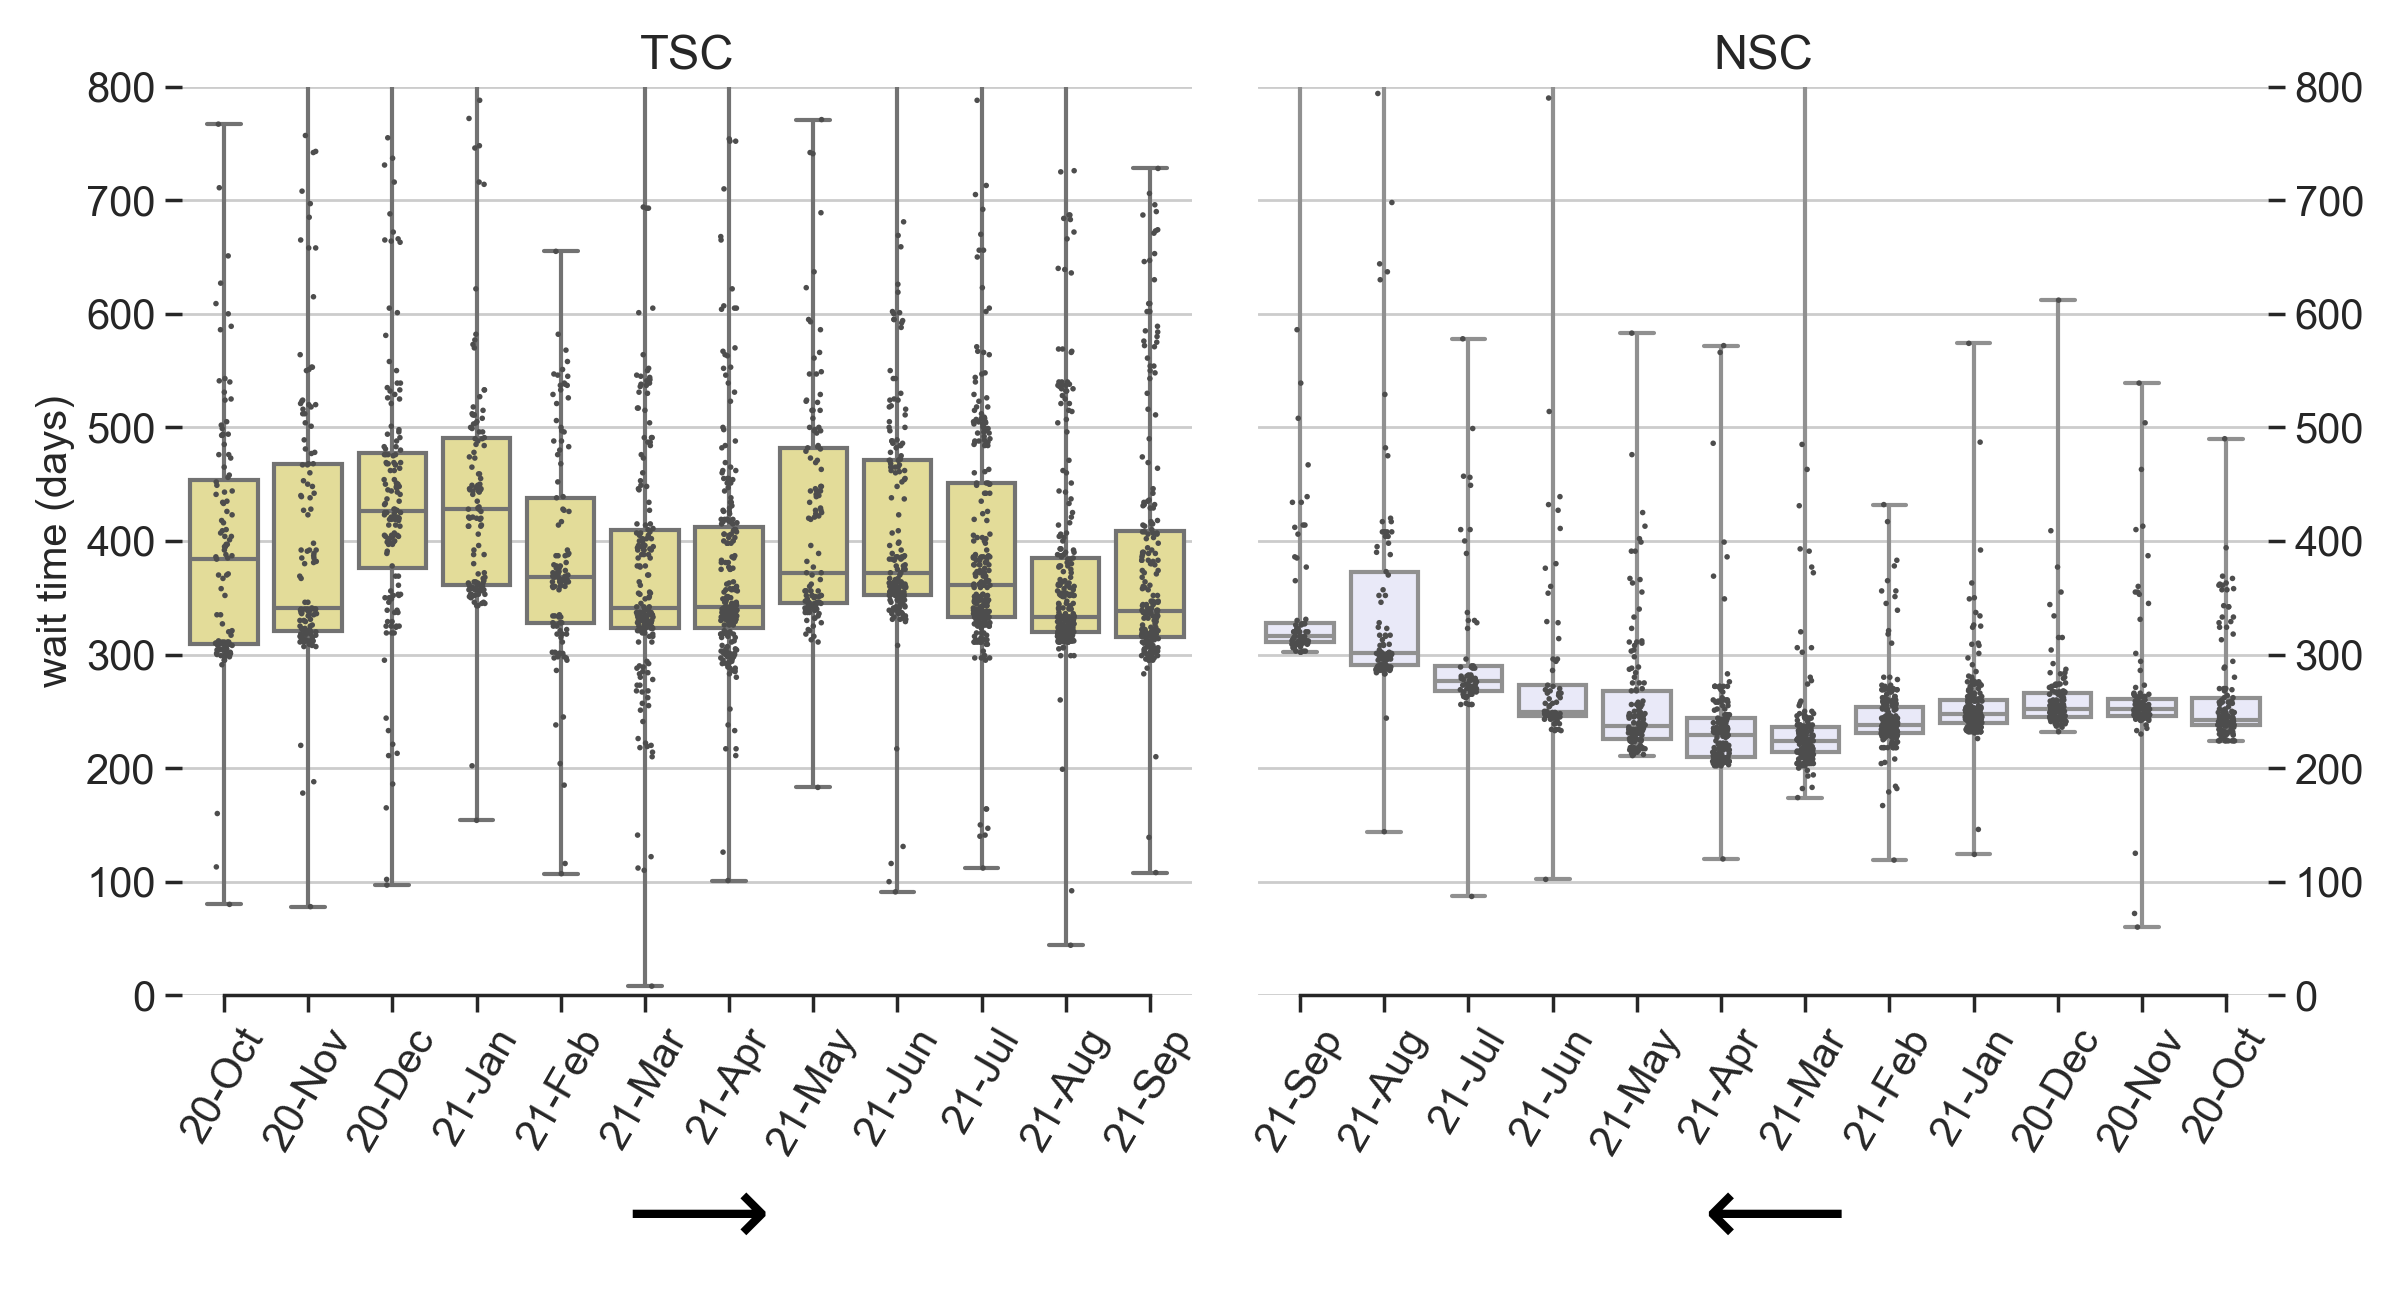
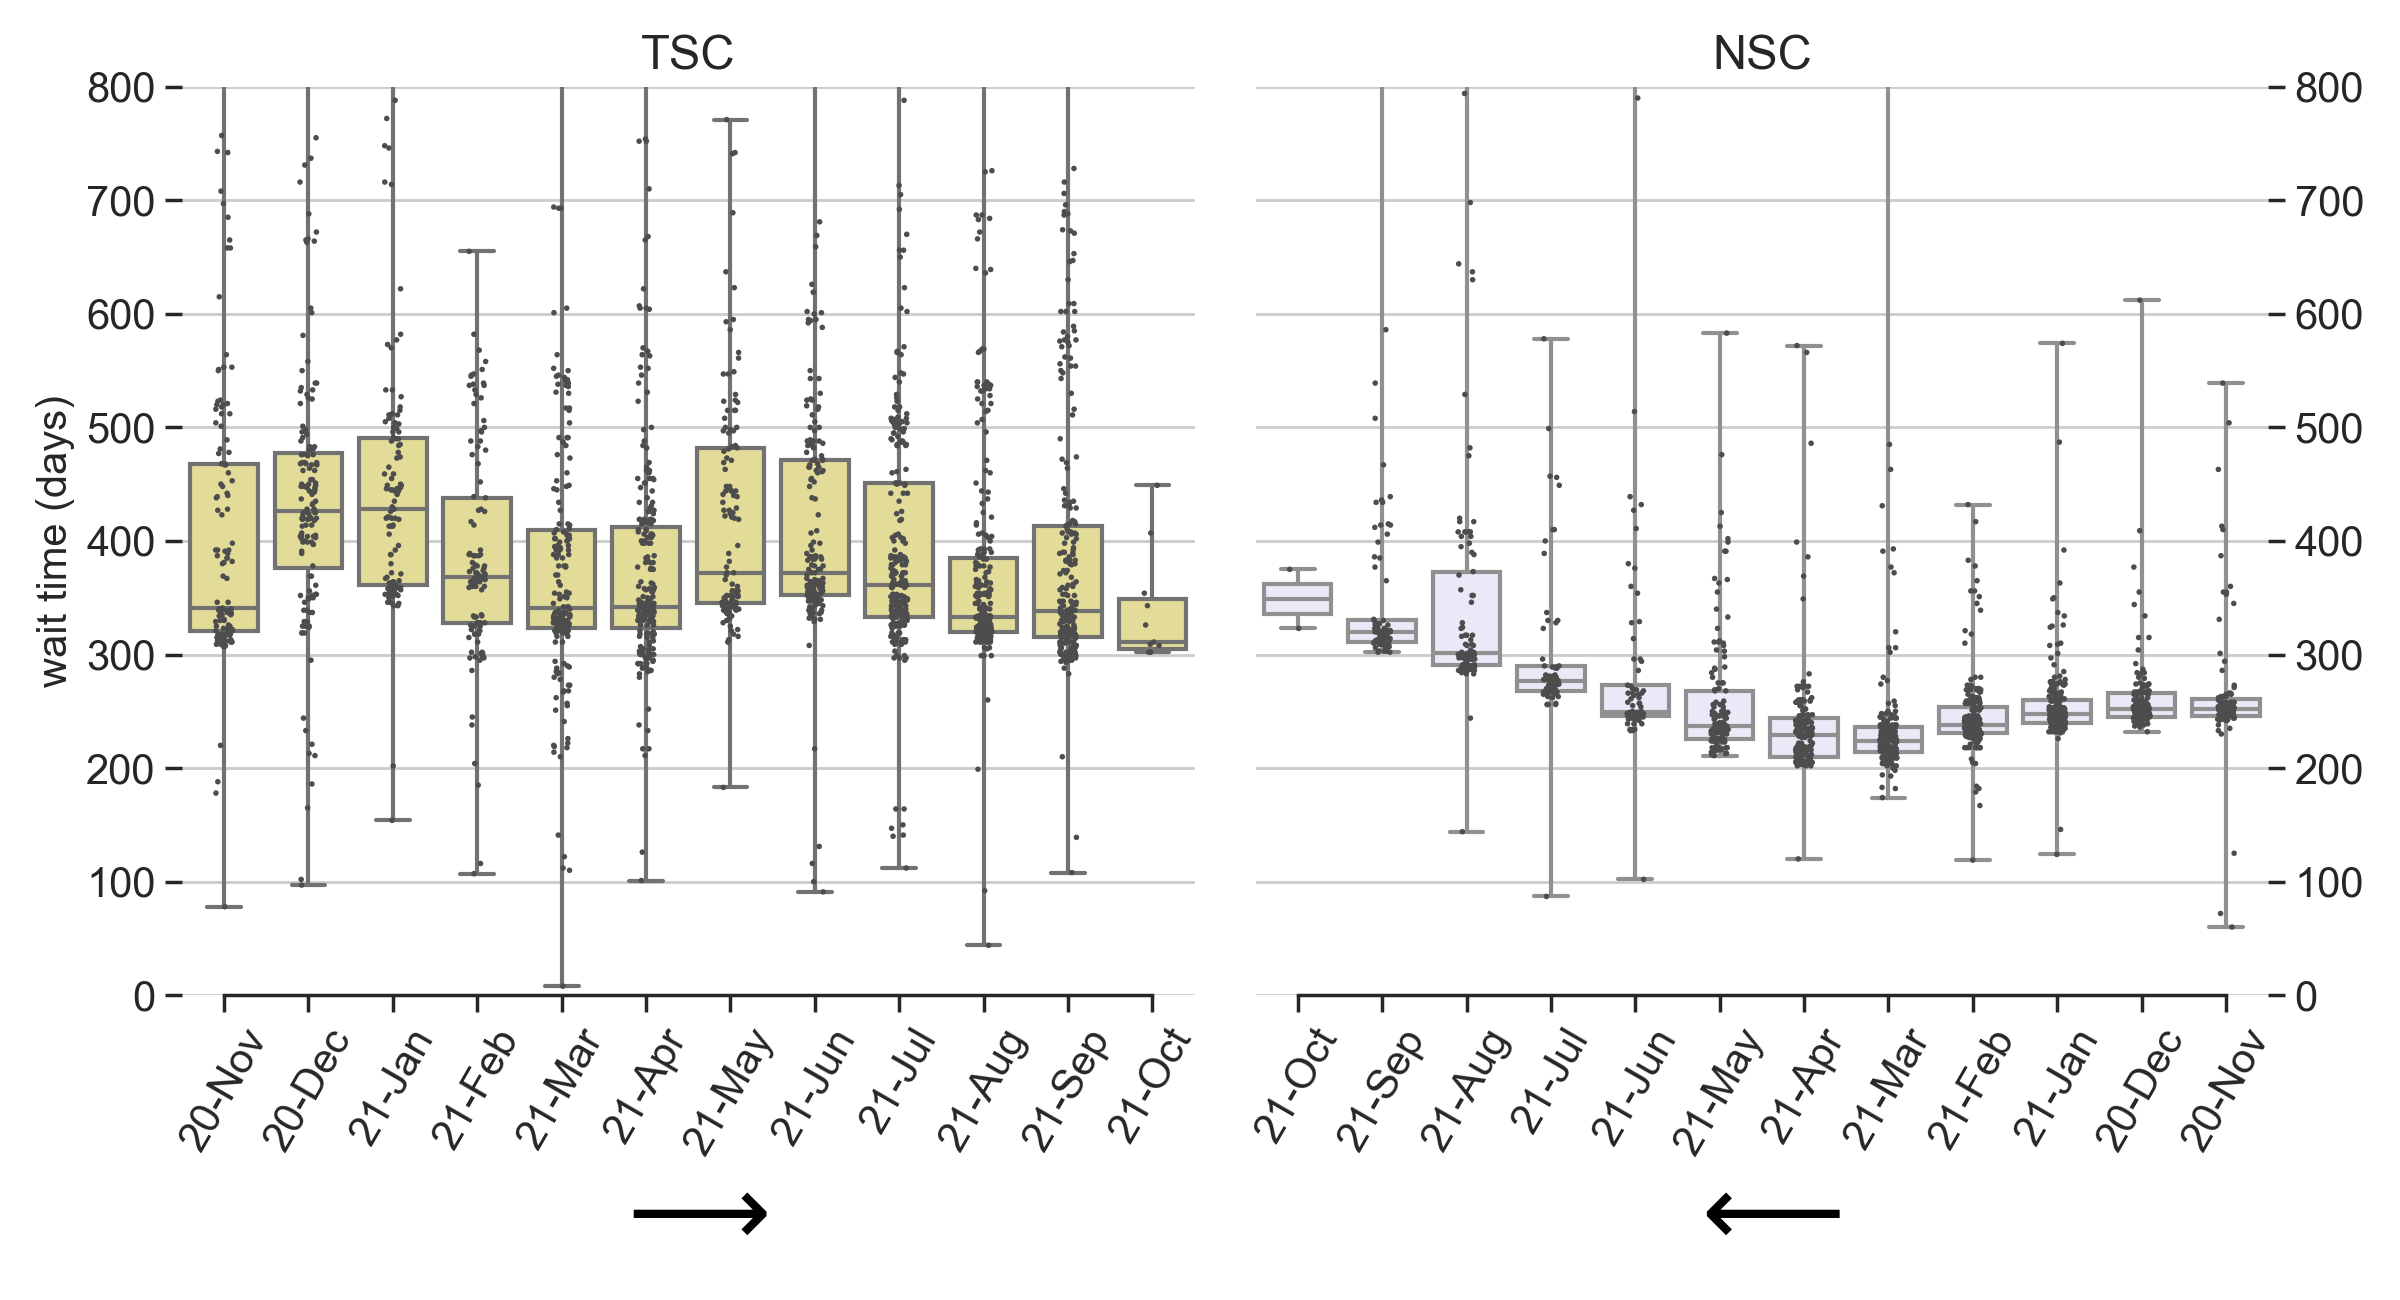
update Nov-02

diff --git a/README.md b/README.md
@@ -1,4 +1,4 @@
-## National Interest Waiver Wait Time, updated Oct-27-2021 
+## National Interest Waiver Wait Time, updated Nov-02-2021 
 * If you wish to join our Telegram action group to discuss the delays of processing at TSC, please [fill out this form](https://docs.google.com/forms/d/194Vp6uimucdul6iqtNFB1HSKz_z75RKsQ-cp3z7f8YY/viewform?edit_requested=true).
  
 USCIS Employment-based-2 NIW I-140 wait time before approval (data source: [Victoria Chen](https://www.wegreened.com/eb1_niw_approvals)). 
